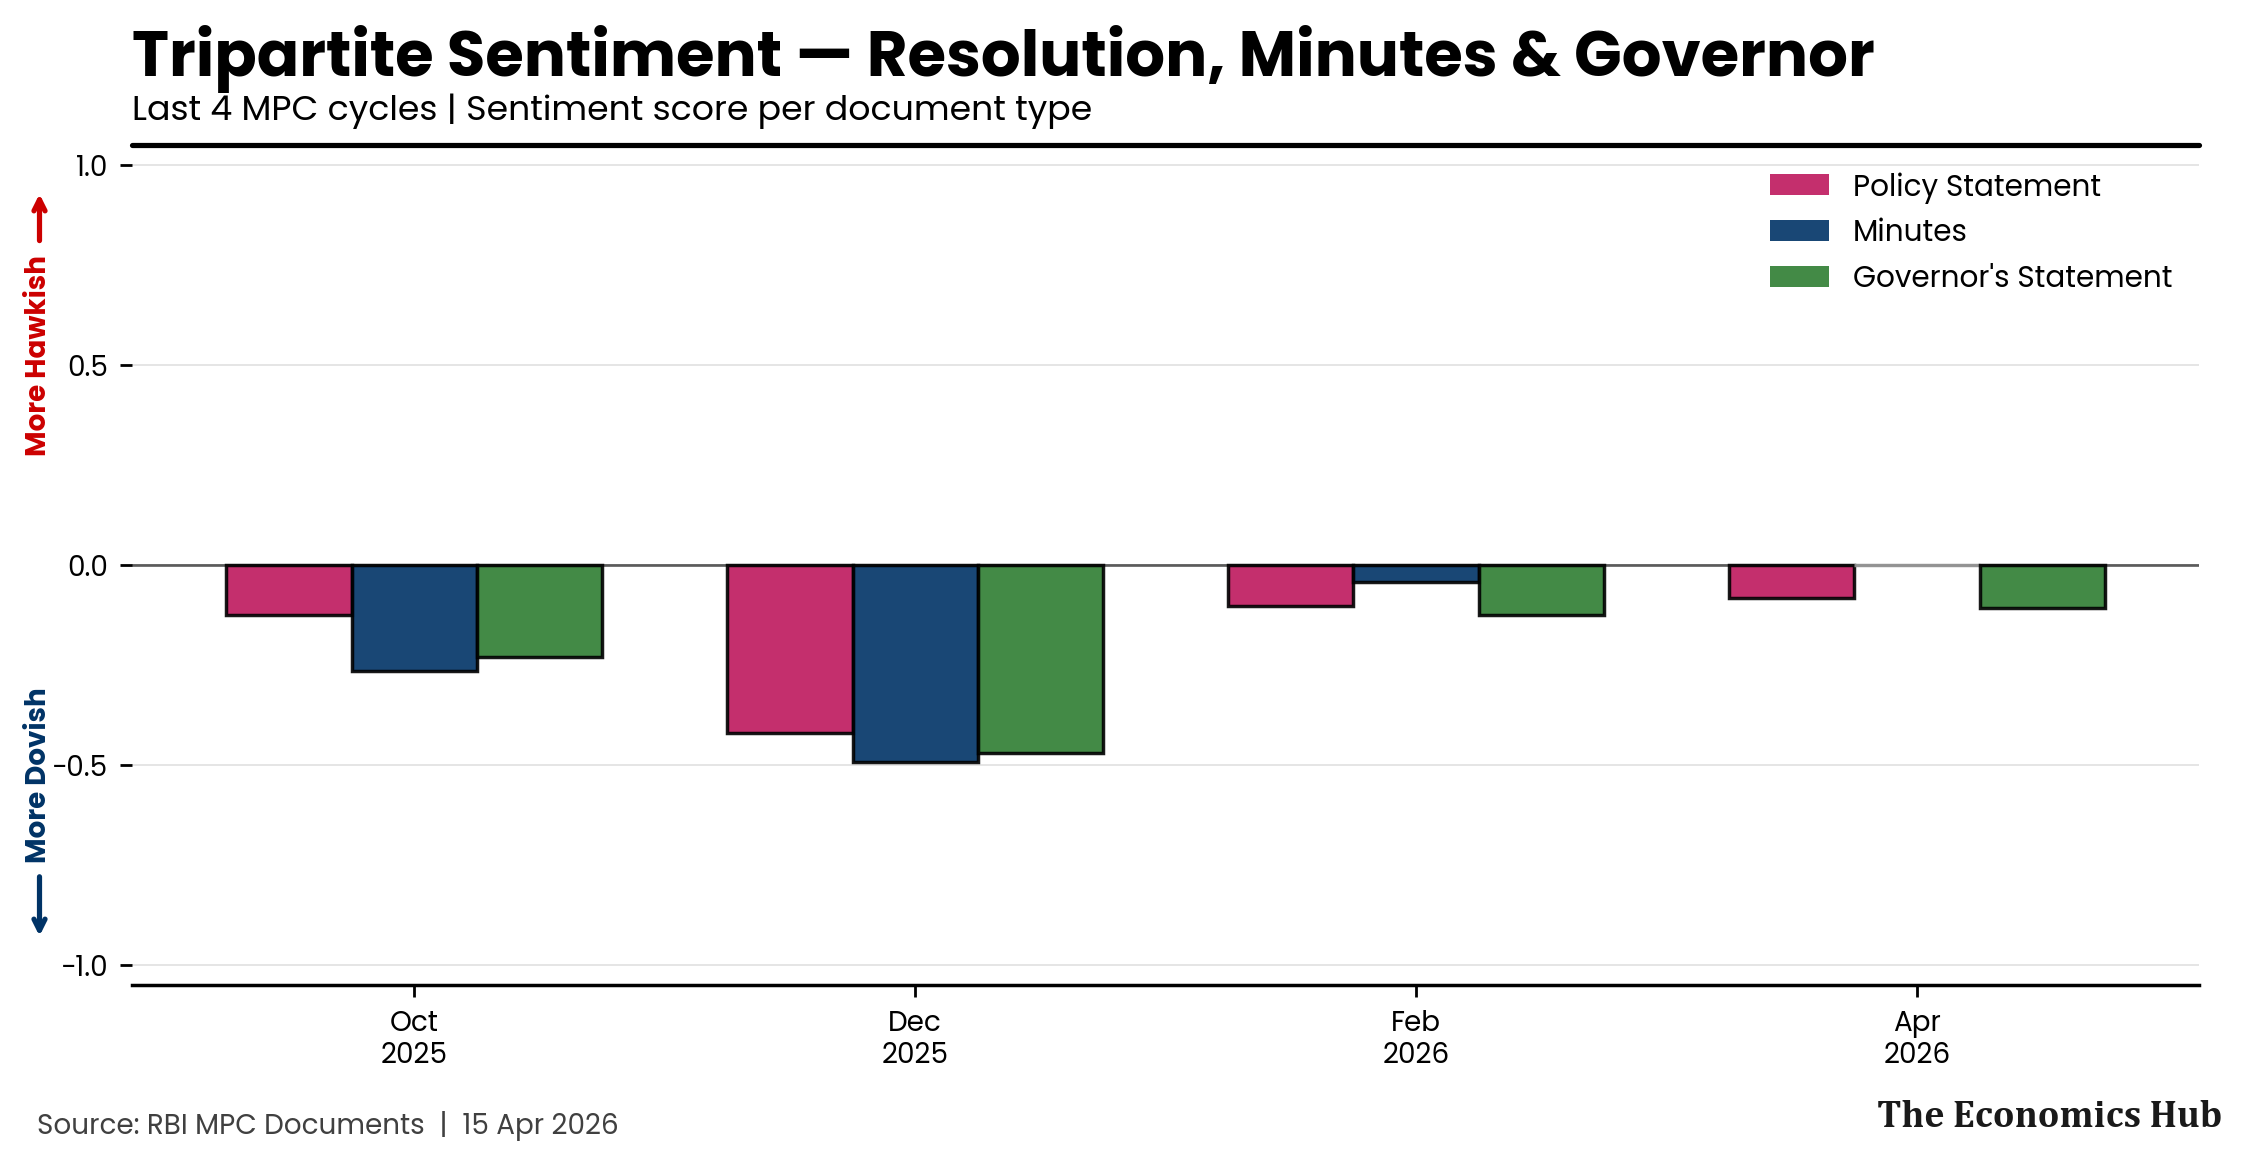
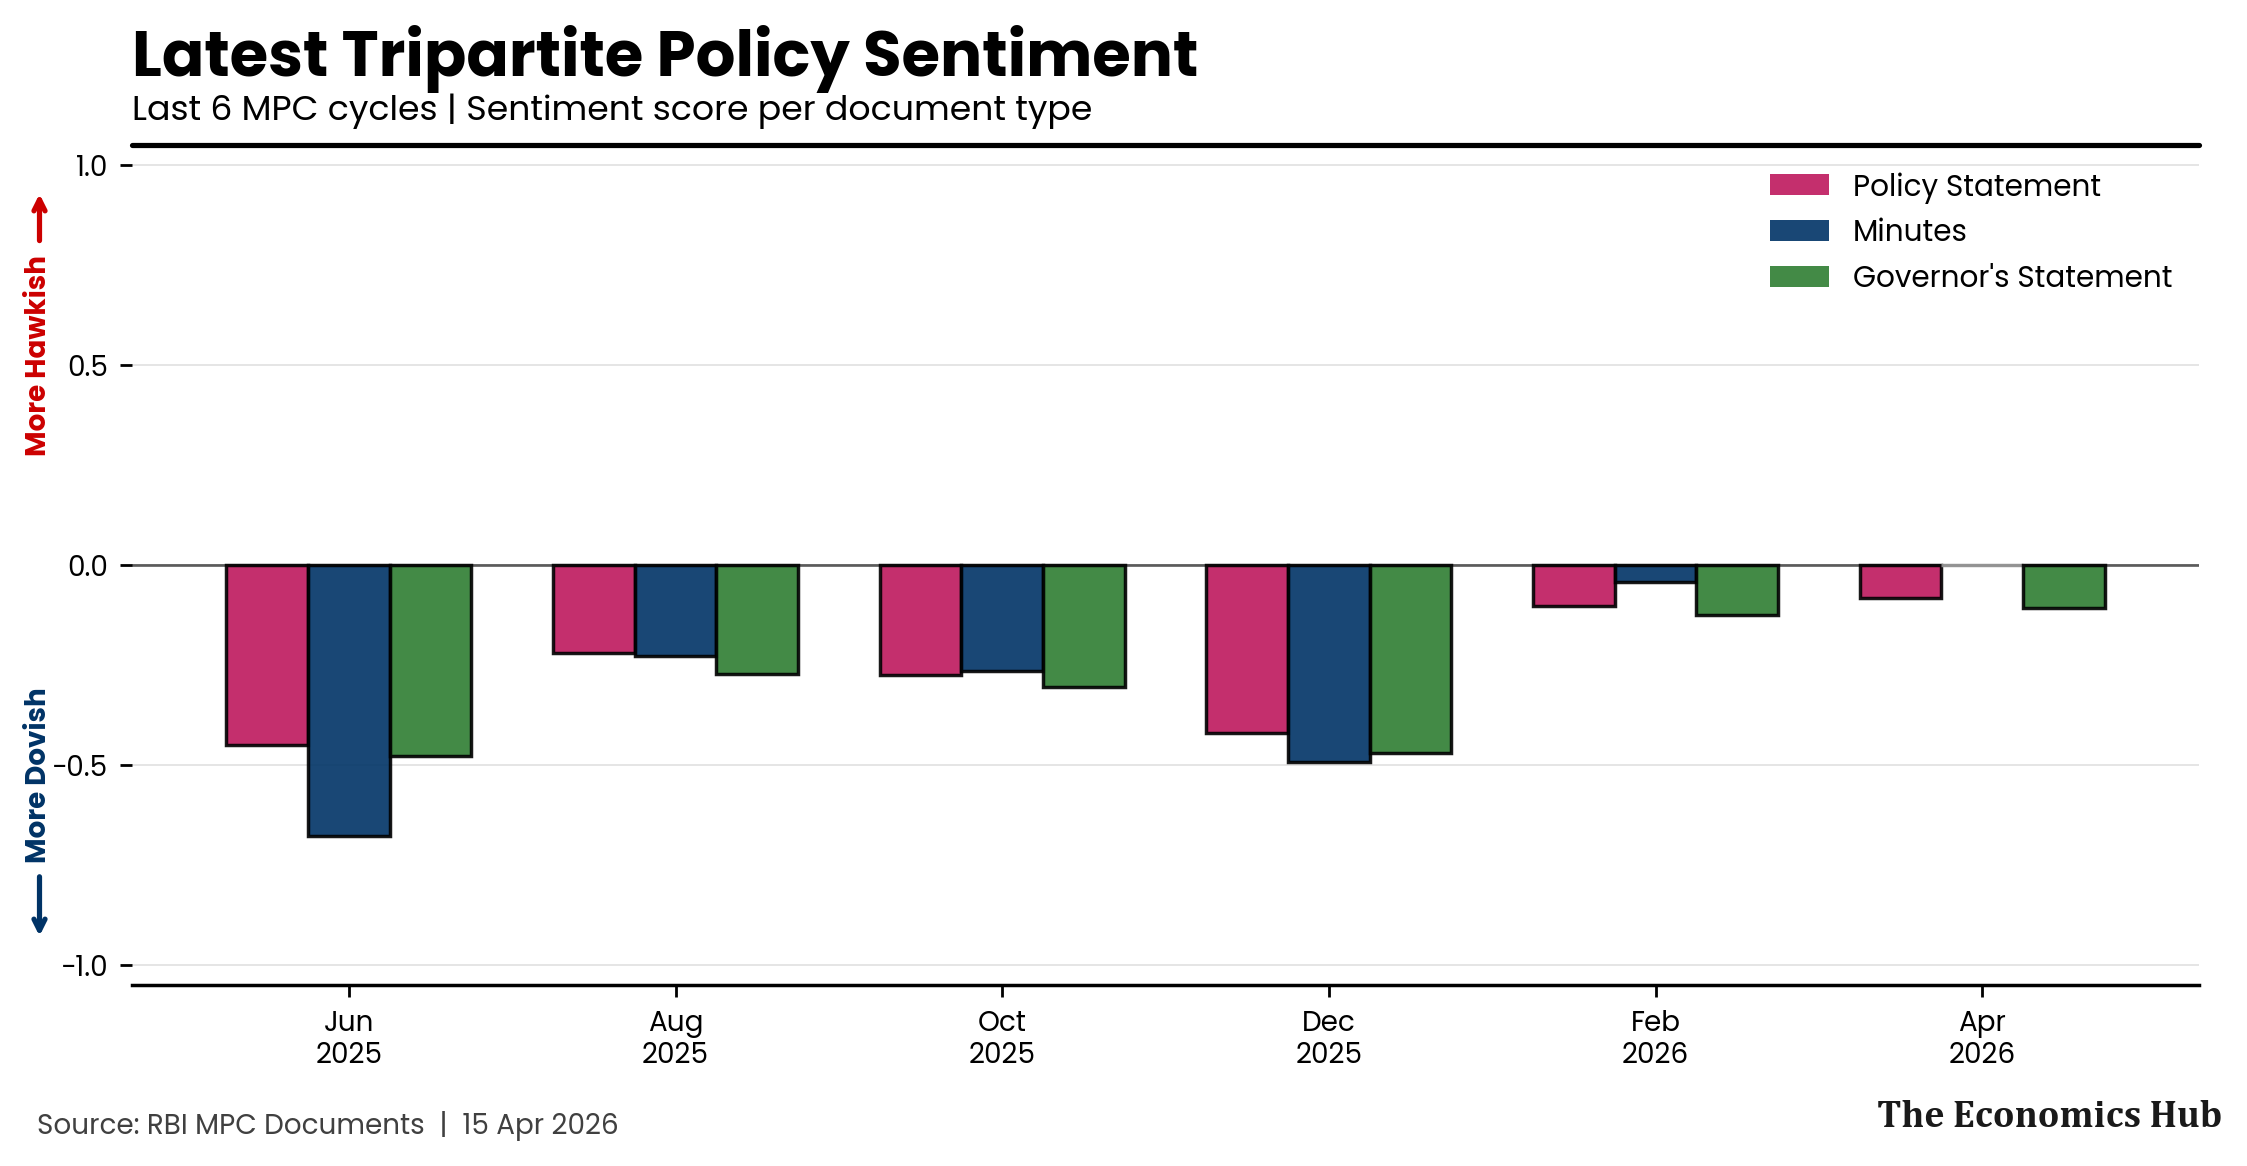
update RBI sentinel to get the NLP driven summary

diff --git a/app.py b/app.py
@@ -26,6 +26,8 @@ from utils.chart_loader import (
 )
 from config.insights import get_insight
 
+from rbi_sentinel.db.manager import get_latest_composite
+
 PROJECT_ROOT = Path(__file__).resolve().parent
 
 # ---------------------------------------------------------------------------
@@ -852,30 +854,41 @@ with tab_rbi:
             )
             st.markdown("""
 <style>
-.arch-wrap { font-family: 'Segoe UI', Arial, sans-serif; font-size: 13px; color: #111; padding: 8px 0; }
-.arch-stage { display: flex; align-items: stretch; margin-bottom: 6px; }
+/* 1. Aligned to Inter font */
+.arch-wrap { font-family: 'Inter', sans-serif; font-size: 13px; color: #111; padding: 8px 0; }
+
+/* 2. Added subtle elevation shadow and rounded the container */
+.arch-stage { display: flex; align-items: stretch; margin-bottom: 6px; box-shadow: 0 2px 6px rgba(0,0,0,0.04); border-radius: 4px; }
+
 .arch-label { background: #003366; color: #fff; font-weight: 700; font-size: 11px;
               writing-mode: vertical-rl; text-orientation: mixed; transform: rotate(180deg);
               min-width: 32px; display: flex; align-items: center; justify-content: center;
               border-radius: 4px 0 0 4px; padding: 4px 2px; letter-spacing: 0.5px; }
-.arch-content { background: #F4F6F9; border: 1px solid #CCCCCC; border-left: none;
+
+/* 3. Softened the structural border to match your custom grey */
+.arch-content { background: #F4F6F9; border: 1px solid #E2DFD8; border-left: none;
                 border-radius: 0 4px 4px 0; flex: 1; display: flex;
                 align-items: center; gap: 6px; padding: 10px 14px; flex-wrap: wrap; }
+
 .arch-box { background: #D6E4F0; border: 1px solid #003366; border-radius: 5px;
             padding: 6px 12px; text-align: center; min-width: 130px; }
 .arch-box b { display: block; font-size: 12px; color: #111; }
 .arch-box span { font-size: 10.5px; color: #444; }
+
 .arch-box-db { background: #A8C8E8; border: 1px solid #003366; border-radius: 5px;
                padding: 6px 12px; text-align: center; min-width: 130px; }
 .arch-box-db b { display: block; font-size: 12px; color: #111; }
 .arch-box-db span { font-size: 10.5px; color: #333; }
+
 .arch-box-dark { background: #003366; border: 1px solid #003366; border-radius: 5px;
                  padding: 6px 12px; text-align: center; min-width: 130px; }
 .arch-box-dark b { display: block; font-size: 12px; color: #fff; }
 .arch-box-dark span { font-size: 10.5px; color: #cce; }
-.arch-arrow { font-size: 18px; color: #555; flex-shrink: 0; }
+
+/* Softened the flow arrows so they don't compete with the data */
+.arch-arrow { font-size: 18px; color: #888888; font-weight: 300; flex-shrink: 0; padding: 0 2px; }
 .arch-branch { display: flex; flex-direction: column; gap: 6px; }
-.arch-down { text-align: center; font-size: 20px; color: #555; line-height: 1; margin: 2px 0; }
+.arch-down { text-align: center; font-size: 20px; color: #888888; font-weight: 300; line-height: 1; margin: 4px 0; }
 </style>
 <div class="arch-wrap">
 
@@ -942,17 +955,71 @@ with tab_rbi:
 </div>
 """, unsafe_allow_html=True)
 
-        # Hero: Stance Meter (full width)
+        # ── Hero: Stance Meter & AI Briefing (Side-by-Side) ──
         stance, charts = _pop_summary(charts, ["01_rbi_stance_meter"])
         if stance:
-            _section("Current MPC Stance")
-            _, col_mid, _ = st.columns([1, 2, 1])
-            with col_mid:
+            _section("Current MPC Stance & Executive Summary")
+            
+            # Fetch the latest qualitative narrative from the database
+            latest_comp = get_latest_composite()
+            ai_summary = latest_comp.get("composite_narrative") if latest_comp else None
+            
+            # If no summary exists, default to a clean placeholder
+            if not ai_summary:
+                ai_summary = "Awaiting narrative generation for the current policy cycle."
+
+            # Split the layout: 55% for the chart, 45% for the text widget
+            col_chart, col_text = st.columns([1.2, 1])
+            
+            with col_chart:
                 st.image(str(stance), use_container_width=True)
                 insight = get_insight(stance.name)
                 if insight:
                     with st.expander("ℹ How to read the Stance Meter"):
                         st.markdown(insight)
+                        
+            with col_text:
+                # ── Format the pure AI Summary for HTML ──
+                clean_summary = ai_summary
+                if clean_summary and "Awaiting narrative" not in clean_summary:
+                    import re
+                    
+                    # 1. Strip Claude's hardcoded labels (with and without markdown bolding)
+                    labels_to_remove = [
+                        "**How to read this document:**", "How to read this document:",
+                        "**Practical takeaway:**", "Practical takeaway:"
+                    ]
+                    for label in labels_to_remove:
+                        clean_summary = clean_summary.replace(label, "")
+                    
+                    # Clean up any leading whitespace left behind after stripping
+                    clean_summary = clean_summary.strip()
+                    
+                    # 2. Safely convert any remaining accidental markdown bolding
+                    clean_summary = re.sub(r'\*\*(.*?)\*\*', r'<strong>\1</strong>', clean_summary)
+                    
+                    # 3. Preserve Claude's natural paragraph breaks
+                    clean_summary = clean_summary.replace('\n\n', '<br><br>')
+                    
+                    # 4. Strip stray single newlines so the text justifies perfectly
+                    clean_summary = clean_summary.replace('\n', ' ')
+
+                st.markdown(
+                    f"""
+                    <div style="background-color: #F4F6F9; padding: 0.8rem 1.4rem 1.4rem 1.4rem; border-radius: 4px; border: 1px solid #E2DFD8; height: 100%;">
+                        <p style="font-family: 'Inter', sans-serif; font-size: 0.95rem; font-weight: 800; color: #003366; text-transform: uppercase; letter-spacing: 0.08em; margin-top: 0; margin-bottom: 0.2rem;">
+                            Executive Summary
+                        </p>
+                        <p style="font-family: 'Inter', sans-serif; font-size: 0.70rem; font-weight: 700; color: #666666; letter-spacing: 0.05em; margin-top: 0; margin-bottom: 1.2rem;">
+                            NLP-driven narrative synthesis of the current policy cycle
+                        </p>
+                        <p style="font-family: 'Inter', sans-serif; font-size: 0.85rem; color: #222222; line-height: 1.65; text-align: justify; margin-bottom: 0;">
+                            {clean_summary}
+                        </p>
+                    </div>
+                    """,
+                    unsafe_allow_html=True
+                )
 
         # ── Sentiment Over Time (PRIMARY) ──
         trajectory, charts = _pop_summary(charts, ["02_rbi_sentiment_trajectory"])
@@ -964,15 +1031,6 @@ with tab_rbi:
                 with st.expander("ℹ Chart Insights & Practical Takeaways"):
                     st.markdown(insight)
 
-        # ── Repo Rate vs Sentiment (PRIMARY) ──
-        rate_chart, charts = _pop_summary(charts, ["05_rbi_rate_and_sentiment"])
-        if rate_chart:
-            _section("Repo Rate vs. Sentiment")
-            st.image(str(rate_chart), use_container_width=True)
-            insight = get_insight(rate_chart.name)
-            if insight:
-                with st.expander("ℹ Chart Insights & Practical Takeaways"):
-                    st.markdown(insight)
 
         # ── Meeting Analysis ──
         _section("Meeting Analysis")
@@ -997,6 +1055,16 @@ with tab_rbi:
                 if insight:
                     with st.expander("ℹ Chart Insights & Practical Takeaways"):
                         st.markdown(insight)
+                        
+        # ── Repo Rate vs Sentiment (PRIMARY) ──
+        rate_chart, charts = _pop_summary(charts, ["05_rbi_rate_and_sentiment"])
+        if rate_chart:
+            _section("Repo Rate vs. Sentiment")
+            st.image(str(rate_chart), use_container_width=True)
+            insight = get_insight(rate_chart.name)
+            if insight:
+                with st.expander("ℹ Chart Insights & Practical Takeaways"):
+                    st.markdown(insight)
 
         # ── Governor Signal Analysis ──
         gov_divergence, charts = _pop_summary(charts, ["07_rbi_governor_divergence"])

diff --git a/rbi_sentinel/charts/governor_divergence.py b/rbi_sentinel/charts/governor_divergence.py
@@ -108,13 +108,6 @@ def generate(
 
     # ── Zero line with label ──────────────────────────────────────────────────
     ax.axhline(0, color="#000000", lw=0.9, ls="-", alpha=0.7, zorder=2)
-    ax.text(
-        len(df) - 0.5, 0.015,
-        "Governor = Committee Consensus",
-        ha="right", va="bottom",
-        fontsize=6.5, color="#404040", alpha=0.8,
-        zorder=4,
-    )
 
     # ── Axes ──────────────────────────────────────────────────────────────────
     ax.set_xticks(x)
@@ -152,11 +145,10 @@ def generate(
         title = "Is the Governor Signalling Ahead of the Committee?"
         subtitle = "Governor's Statement score minus composite meeting score"
     else:
-        title = "Governor vs. Committee Consensus — Divergence"
+        title = "MPC Consensus vs. Governor Stance Divergence"
         subtitle = (
             f"Last {len(df)} MPC cycles | "
-            "Divergence = Governor's Statement score − composite score "
-            "| +ve = Governor more hawkish"
+            "Divergence = Governor's Statement score − composite score"
         )
 
     EconStyle.add_top_rule(ax)

diff --git a/rbi_sentinel/charts/doc_comparison.py b/rbi_sentinel/charts/doc_comparison.py
@@ -177,7 +177,7 @@ def generate(
         title = "What the Documents Reveal"
         subtitle = "Resolution, MPC Minutes & Governor sentiment — three-document comparison"
     else:
-        title = "Tripartite Sentiment — Resolution, Minutes & Governor"
+        title = "Latest Tripartite Policy Sentiment"
         subtitle = f"Last {len(df)} MPC cycles | Sentiment score per document type"
 
     EconStyle.add_top_rule(ax)
